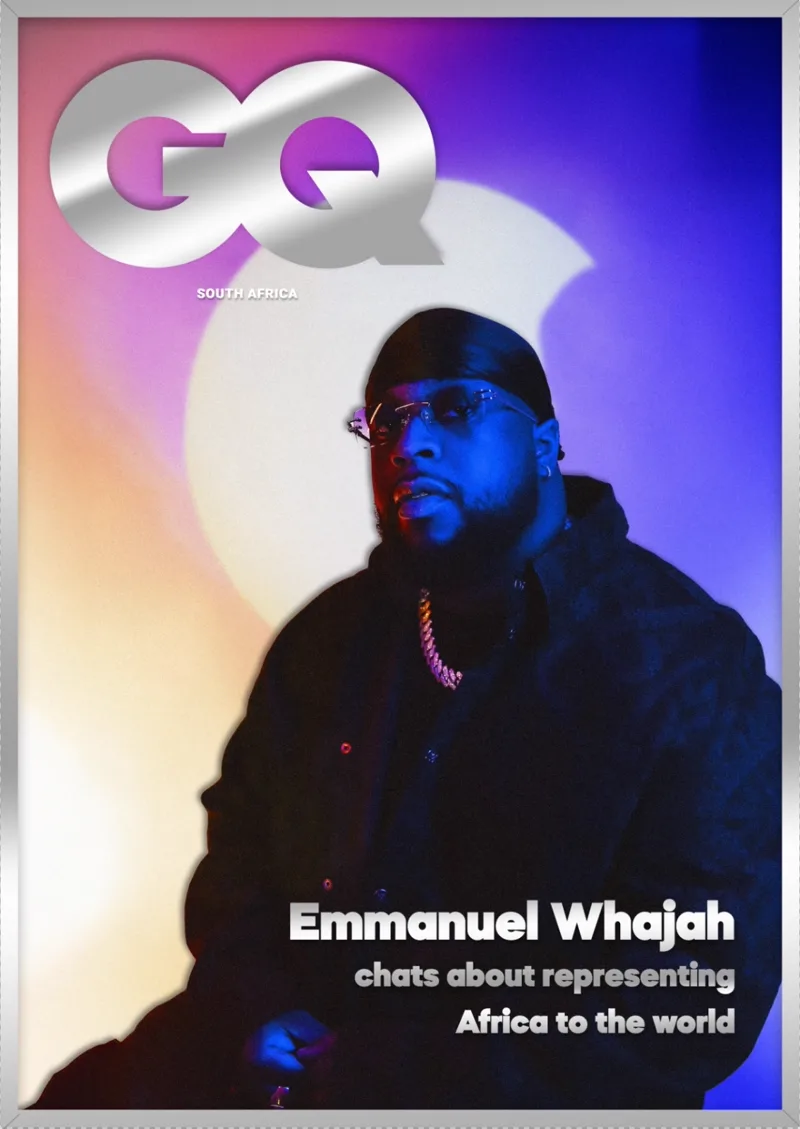
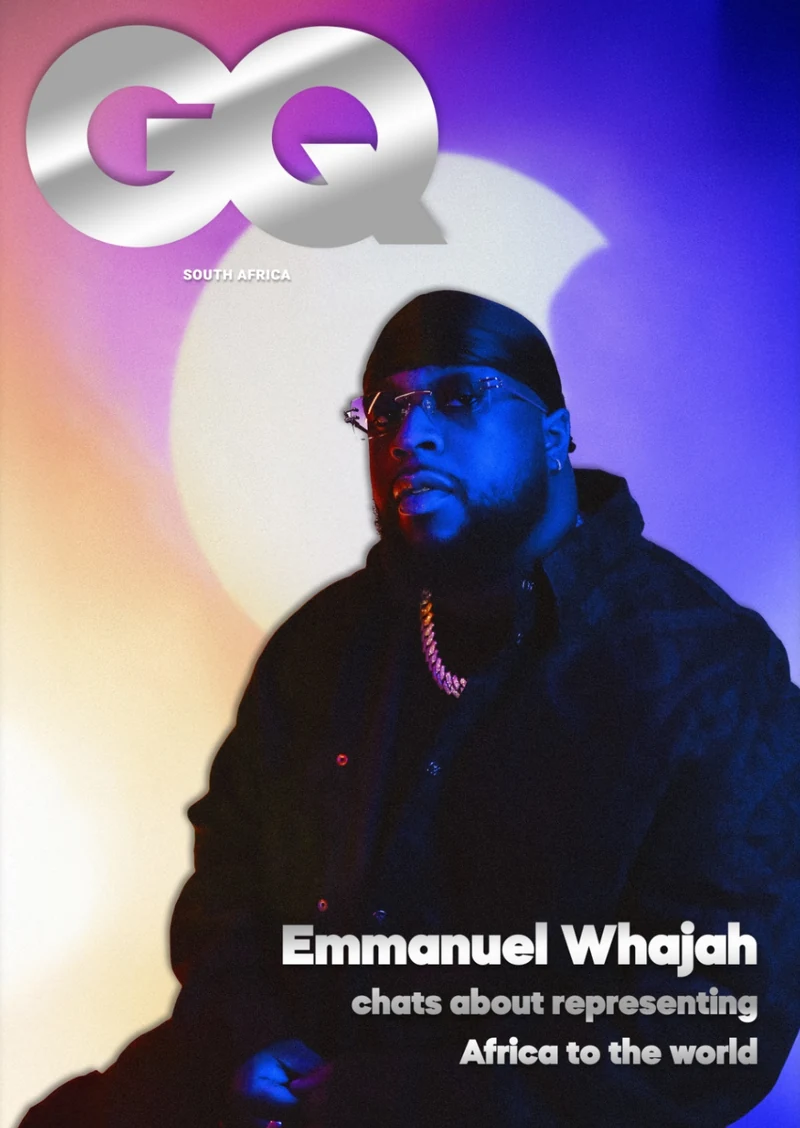
crop press cover frames, add moments backdrop, fix tablet work cards
Press covers: crop out the gray metallic mockup frame baked into the
source photos so the cover art bleeds edge-to-edge instead of showing
a gray border.

Moments gallery: add a dedicated dark radial backdrop behind the
headline (on top of the existing text-shadow) for reliable contrast
regardless of which tile is behind it.

Work slider: the 3-cards-per-row layout had no intermediate breakpoint,
so tablet/small-desktop widths (900-1200px) squeezed each card down to
where long titles (e.g. "Jason Derulo x Les Twins") wrapped 7 lines
deep. Added a 1200px breakpoint dropping to 2 cards per row.

Also added Marketing and Personal Branding to the Vision card tags.

diff --git a/portfolio-emmanuel/index.html b/portfolio-emmanuel/index.html
@@ -665,8 +665,9 @@ html.portfolio-v3 .v3-scroll-gallery{display:block;position:relative;height:260s
 html.portfolio-v3 .v3-scroll-stage{position:sticky;top:0;height:100svh;overflow:hidden;isolation:isolate}
 html.portfolio-v3 .v3-scroll-stage::after{content:"";position:absolute;inset:0;z-index:2;pointer-events:none;background:radial-gradient(circle at center,transparent 20%,rgba(0,0,0,.48) 100%)}
 html.portfolio-v3 .v3-scroll-copy{position:absolute;left:50%;top:50%;z-index:3;width:min(1360px,92vw);transform:translate(-50%,-50%);text-align:center;pointer-events:none}
-html.portfolio-v3 .v3-scroll-copy span{display:block;margin-bottom:22px;font-size:14px;letter-spacing:.28em;text-transform:uppercase;color:#fff}
-html.portfolio-v3 .v3-scroll-copy h2{font-size:clamp(50px,7vw,112px);font-weight:480;line-height:.9;letter-spacing:-.05em;text-shadow:0 2px 40px rgba(0,0,0,.9),0 1px 4px rgba(0,0,0,.9)}
+html.portfolio-v3 .v3-scroll-copy::before{content:"";position:absolute;inset:-8% -10%;z-index:0;background:radial-gradient(ellipse at center,rgba(0,0,0,.5) 0%,rgba(0,0,0,.28) 55%,transparent 78%);pointer-events:none}
+html.portfolio-v3 .v3-scroll-copy span{position:relative;z-index:1;display:block;margin-bottom:22px;font-size:14px;letter-spacing:.28em;text-transform:uppercase;color:#fff}
+html.portfolio-v3 .v3-scroll-copy h2{position:relative;z-index:1;font-size:clamp(50px,7vw,112px);font-weight:480;line-height:.9;letter-spacing:-.05em;text-shadow:0 2px 40px rgba(0,0,0,.9),0 1px 4px rgba(0,0,0,.9)}
 html.portfolio-v3 .v3-scroll-copy h2 .headline-accent{display:block;font-style:normal;color:#fff}
 html.portfolio-v3 .v3-scroll-row{position:absolute;z-index:1;display:flex;align-items:center;gap:clamp(18px,2.5vw,42px);width:max-content;will-change:transform}
 html.portfolio-v3 .v3-scroll-row.one{top:5vh;left:-12vw}
@@ -798,6 +799,7 @@ html.portfolio-v3 .v3-typewriter.typing-active::after{animation-play-state:runni
 @media(max-width:1200px){
   html.portfolio-v3 .profile-cards{grid-template-columns:repeat(2,minmax(0,1fr))}
   html.portfolio-v3 .booking-head{grid-template-columns:1fr;gap:24px;align-items:start}
+  html.portfolio-v3 .card.v3-visible{flex-basis:calc((100% - 18px)/2)}
 }
 
 @media(max-width:900px){
@@ -946,7 +948,7 @@ html.portfolio-v3 .v3-typewriter.typing-active::after{animation-play-state:runni
     <h3>Creating stories that outlive the moment.</h3>
     <p>Every project begins with a story. Whether working with artists, athletes or global brands, my focus is to create timeless visual experiences that inspire emotion, build culture and leave a lasting impact.</p>
     <div class="profile-card-tags" aria-label="Areas of expertise">
-      <span>Creative Direction</span><span>Filmmaking</span><span>Photography</span><span>Storytelling</span>
+      <span>Creative Direction</span><span>Filmmaking</span><span>Photography</span><span>Storytelling</span><span>Marketing</span><span>Personal Branding</span>
     </div>
     <div class="profile-stats" aria-label="Experience statistics">
       <div class="profile-stat"><strong>18+</strong><span>Years of Experience</span></div>
